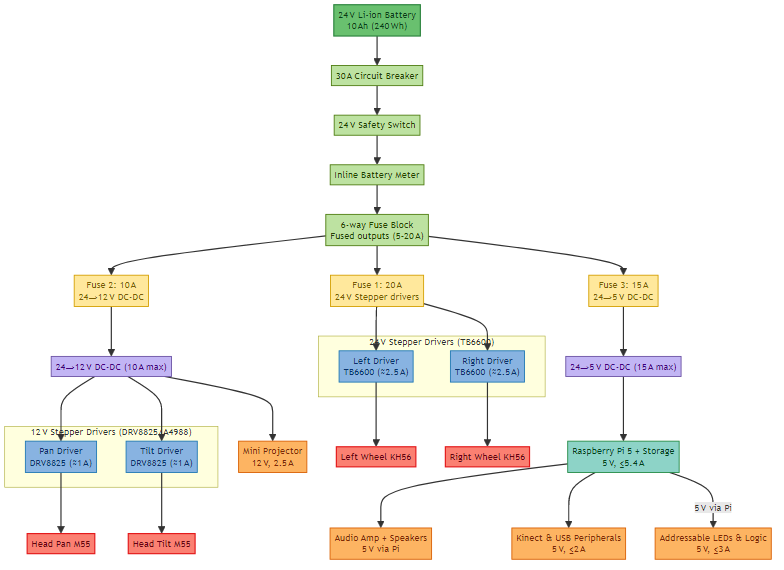
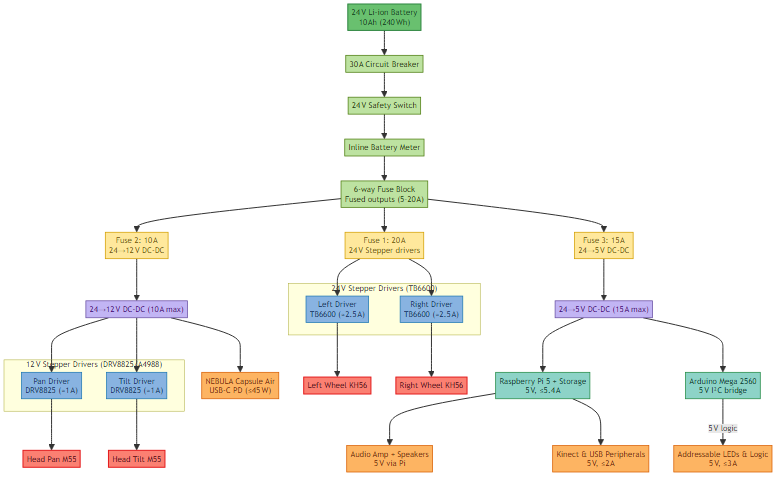
Up to date

diff --git a/readme.md b/readme.md
@@ -38,9 +38,10 @@ graph TD
         Stepper12Pan["Pan Driver\nDRV8825 (≈1 A)"]
         Stepper12Tilt["Tilt Driver\nDRV8825 (≈1 A)"]
     end
-    Projector["Mini Projector\n12 V, 2.5 A"]
+    Projector["NEBULA Capsule Air\nUSB-C PD (≤45 W)"]
     Audio["Audio Amp + Speakers\n5 V via Pi"]
     Pi["Raspberry Pi 5 + Storage\n5 V, ≤5.4 A"]
+    Arduino["Arduino Mega 2560\n5 V I²C bridge"]
     Kinect["Kinect & USB Peripherals\n5 V, ≤2 A"]
     LEDs["Addressable LEDs & Logic\n5 V, ≤3 A"]
 
@@ -52,9 +53,10 @@ graph TD
     Buck12 --> Stepper12Tilt
     Buck12 --> Projector
     FuseBlock --> FuseBuck5 --> Buck5 --> Pi
+    Buck5 --> Arduino
     Pi --> Audio
     Pi --> Kinect
-    Pi -->|5 V via Pi| LEDs
+    Arduino -->|5 V logic| LEDs
     Stepper24Left --> LeftWheel["Left Wheel KH56"]
     Stepper24Right --> RightWheel["Right Wheel KH56"]
     Stepper12Pan --> HeadPan["Head Pan M55"]
@@ -66,6 +68,7 @@ graph TD
     class Stepper24Left,Stepper24Right,Stepper12Pan,Stepper12Tilt driver
     class Buck12,Buck5 converter
     class Pi compute
+    class Arduino compute
     class Projector,Audio,Kinect,LEDs peripheral
     class LeftWheel,RightWheel,HeadPan,HeadTilt motor
 
@@ -95,9 +98,10 @@ graph TD
 ```mermaid
 graph LR
     Pi["Raspberry Pi 5\nCore compute & control"]
-    Projector["Mini Projector\nHDMI sink"]
+    Projector["NEBULA Capsule Air\nHDMI sink"]
     Kinect["Xbox Kinect Sensor\nUSB 3.0"]
     Controller["Xbox Controller Adapter\nUSB"]
+    Arduino["Arduino Mega 2560\nI²C co-processor"]
 
     subgraph StepperDrivers24["24 V TB6600 Stepper Drivers"]
         StepperL["Left Driver\nStep / Dir / Enable"]
@@ -119,21 +123,37 @@ graph LR
         MotorTilt["Tilt Motor\nA-/A+/B-/B+"]
     end
 
+    subgraph SensorCluster["Sensors"]
+        UltrasonicArray["Ultrasonic Pairs\nTrigger / Echo"]
+        LiDARArray["LiDAR Array\nI²C / UART"]
+    end
+
+    subgraph LimitSwitches["Limit Switches"]
+        PanLimit["Pan Home Switch\nDigital"]
+        ShutterLimit["Shutter Home Switch\nDigital"]
+    end
+
+    subgraph ShutterActuation["Shutter Actuation"]
+        ShutterDriver["Shutter Driver\nPWM / Dir / Enable"]
+        ShutterMotor["Shutter Motor\nType TBD"]
+    end
+
     Pi -->|HDMI| Projector
     Pi -->|USB 3.0| Kinect
     Pi -->|USB| Controller
-    Pi -->|GPIO: Step| StepperL
-    Pi -->|GPIO: Dir| StepperL
-    Pi -->|GPIO: Enable| StepperL
-    Pi -->|GPIO: Step| StepperR
-    Pi -->|GPIO: Dir| StepperR
-    Pi -->|GPIO: Enable| StepperR
-    Pi -->|GPIO: Step| StepperPan
-    Pi -->|GPIO: Dir| StepperPan
-    Pi -->|GPIO: Enable| StepperPan
-    Pi -->|GPIO: Step| StepperTilt
-    Pi -->|GPIO: Dir| StepperTilt
-    Pi -->|GPIO: Enable| StepperTilt
+    Pi -->|I²C commands| Arduino
+    Arduino -->|Status telemetry| Pi
+    Arduino -->|Step / Dir / Enable| StepperL
+    Arduino -->|Step / Dir / Enable| StepperR
+    Arduino -->|Step / Dir / Enable| StepperPan
+    Arduino -->|Step / Dir / Enable| StepperTilt
+    Arduino -->|PWM / Dir| ShutterDriver
+    Arduino -->|Trigger| UltrasonicArray
+    UltrasonicArray -->|Echo timing| Arduino
+    LiDARArray -->|Range frames| Arduino
+    Arduino -->|Sync / power| LiDARArray
+    PanLimit -->|Closed / Open| Arduino
+    ShutterLimit -->|Closed / Open| Arduino
 
     StepperL -->|A+| MotorLeft
     StepperL -->|A-| MotorLeft
@@ -151,11 +171,12 @@ graph LR
     StepperTilt -->|A-| MotorTilt
     StepperTilt -->|B+| MotorTilt
     StepperTilt -->|B-| MotorTilt
+    ShutterDriver -->|Motor power| ShutterMotor
 
-    class Pi compute
-    class Projector,Kinect,Controller peripheral
-    class StepperL,StepperR,StepperPan,StepperTilt driver
-    class MotorLeft,MotorRight,MotorPan,MotorTilt motor
+    class Pi,Arduino compute
+    class Projector,Kinect,Controller,UltrasonicArray,LiDARArray,PanLimit,ShutterLimit peripheral
+    class StepperL,StepperR,StepperPan,StepperTilt,ShutterDriver driver
+    class MotorLeft,MotorRight,MotorPan,MotorTilt,ShutterMotor motor
 
     classDef compute fill:#8dd3c7,stroke:#238b45,color:#00441b,stroke-width:1.5px
     classDef peripheral fill:#fdb462,stroke:#d95f02,color:#7f2704,stroke-width:1.5px
@@ -169,8 +190,9 @@ graph LR
 ## Control & Compute
 | Component | Role | Voltage (V) | Amperage (A) | Wattage (W) | Physical Dimensions (") | Link | Notes |
 | --- | --- | --- | --- | --- | --- | --- | --- |
-| Controller | Primary operator input | 5 | ≤1.5 | ≤7.5 | Gamepad form factor | [Xbox](https://www.xbox.com/en-US/accessories/controllers/elite-wireless-controller-series-2) | Wireless or USB |
-| Pi 5 | Onboard coordination & processing | 5 | ≤5.4 | ≤27 | 3.35" × 2.20" × 0.71" | [Raspberry](https://www.raspberrypi.com/products/raspberry-pi-5/) | Wi-Fi / Bluetooth / USB; CSI/DSI; 16 GB RAM, 64 GB SD. |
+| Controller | Primary operator input | 5 | ≤1.5 | ≤7.5 | Gamepad form factor | [Xbox Elite Controller](https://www.xbox.com/en-US/accessories/controllers/elite-wireless-controller-series-2) | Wireless or USB |
+| Computer | Onboard coordination & processing | 5 | ≤5.4 | ≤27 | 3.35" × 2.20" × 0.71" | [Raspberry Pi 5](https://www.raspberrypi.com/products/raspberry-pi-5/) | Wi-Fi / Bluetooth / USB; CSI/DSI; 16 GB RAM, 64 GB SD. |
+| Microcontroller | Motion & sensor co-processor | 5 | ≤0.5 | ≤2.5 | 4.00" × 2.10" × 0.60" | [Arduino Mega 2560](https://store.arduino.cc/products/arduino-mega-2560-rev3) | I²C bridge coordinating drivers, sensors, and limit switches. |
 
 ## Locomotion
 | Component | Voltage (V) | Amperage (A) | Wattage (W) | Physical Dimensions (") | Link | Notes |
@@ -186,6 +208,8 @@ graph LR
 | Head pan | 12 | 1.0 | 12 | Ø2.17" × 0.98" | [Mitsumi](https://product.minebeamitsumi.com/en/product/category/rotary/steppingmotor/pm/PMStandardtype.html) | M55SP-3NK Stepper Motor (stocked on [Radwell](https://www.radwell.com/Buy/MITSUMI/MITSUMI/M55SP-2NK)) |
 | Head tilt | 12 | 1.0 | 12 | Ø2.17" × 0.98" | [Mitsumi](https://product.minebeamitsumi.com/en/product/category/rotary/steppingmotor/pm/PMStandardtype.html) | M55SP-3NK Stepper Motor (stocked on [Radwell](https://www.radwell.com/Buy/MITSUMI/MITSUMI/M55SP-2NK)) |
 | Drivers | 12 | ≤2.0 | ≤24 | 0.8" × 0.6" | [Jeanoko](https://www.amazon.com/dp/B0C4P8997M) | DRV8825/A4988 × 2 |
+| Shutter motor driver | TBD | TBD | TBD | TBD | — | H-bridge driver; 5 V logic with 12 V motor rail; commanded by Arduino. |
+| Shutter motor | TBD | TBD | TBD | TBD | — | Motorized projector shutter (non-stepper); homed via limit switch. |
 
 ## Power & Electronics
 | Component | Voltage (V) | Amperage (A) | Wattage (W) | Physical Dimensions (") | Link | Notes |
@@ -204,14 +228,21 @@ graph LR
 ### Distance & Environment
 | Sensor | Range / Resolution | Coverage | Voltage (V) | Amperage (A) | Wattage (W) | Physical Dimensions (") | Link | Notes |
 | --- | --- | --- | --- | --- | --- | --- | --- | --- |
-| Ultrasonic pair (x2 sets) | Short-range (TBD) | Front/Rear or side placements TBD | 5 | ≤0.015 | ≤0.075 | ~1.77" × 0.79" modules | — | Use overlapping fields to reduce blind spots. |
-| Single-direction LiDARs (~10) | Spec TBD | 360° array via multiple units | TBD | TBD | TBD | TBD | — | Define spacing and mounting for uniform perimeter sensing. |
+| Ultrasonic pair (x2 sets) | Short-range (TBD) | Front/Rear or side placements TBD | 5 | ≤0.015 | ≤0.075 | ~1.77" × 0.79" modules | — | Use overlapping fields to reduce blind spots; polled by Arduino over I²C link to Pi. |
+| Single-direction LiDARs (~10) | Spec TBD | 360° array via multiple units | TBD | TBD | TBD | TBD | — | Define spacing and mounting for uniform perimeter sensing; prefer I²C/RS485 variants managed by Arduino. |
+
+### Contact & Limit Sensing
+
+| Component | Role | Voltage (V) | Amperage (A) | Wattage (W) | Physical Dimensions (") | Link | Notes |
+| --- | --- | --- | --- | --- | --- | --- | --- |
+| Pan home limit switch | Homing reference for head pan axis | 5 | ≤0.02 | ≤0.1 | TBD | — | Wired to Arduino digital input with pull-up; defines zero position. |
+| Shutter home limit switch | Homing reference for projector shutter | 5 | ≤0.02 | ≤0.1 | TBD | — | Confirms shutter closed position; debounced on Arduino. |
 
 ### Vision & Interaction
 | Component | Function | Coverage / Resolution | Voltage (V) | Amperage (A) | Wattage (W) | Physical Dimensions (") | Link | Notes |
 | --- | --- | --- | --- | --- | --- | --- | --- | --- |
 | Xbox Kinect | Depth + RGB sensing, Pose detection | Wide FoV; structured light | 5 | ≤2 | ≤10 | 11" × 2.6" × 1.5" | [OpenKinect](https://github.com/OpenKinect/libfreenect) | Confirm Raspberry Pi compatibility or plan for companion compute. |
-| Mini Projector | Visual output | 1080p | 12 | 2.5 | 27 | 5.5" × 2.36" × 4.33" | [CiBest](https://www.amazon.com/dp/B0DRCRK3BQ?ref=ppx_yo2ov_dt_b_fed_asin_title) | Validate mounting, airflow, and HDMI cabling to Pi 5. |
+| Mini Projector | Visual output | 720p (150 ANSI) | 5–20 (USB-C PD) | ≤2.25 | ≤45 | Ø2.7" × 5.5" | [NEBULA Capsule Air](https://www.amazon.com/dp/B0CWV1S7B4?ref=ppx_yo2ov_dt_b_fed_asin_title&th=1) | Built-in 34 Wh battery; integrate 45 W USB-C PD or leverage internal pack. |
 | Camera | Vision input | 12 MP, 75° FoV; autofocus | 5 | ≤0.5 | ≤2.5 | 1.50" × 1.50" × 0.71" (w/ adapter) | [Arducam](https://www.amazon.com/dp/B0C9PYCV9S?ref=ppx_yo2ov_dt_b_fed_asin_title) | IMX708 |
 | Addressable LED strip | Face ring | Pixel count TBD | 5 | ≤0.06 (per LED) | ≤0.3 (per 5 LEDs) | Flexible strip | — | Level-shift 3.3 V logic up to 5 V. |
 
@@ -225,21 +256,27 @@ graph LR
 | Item | Status | Next Step |
 | --- | --- | --- |
 | Head stepper motor selection | Pending | Determine torque requirements and mechanical constraints. |
-| Projector specification | Pending | Evaluate models for brightness, interface, and mounting. |
+| Projector specification | Selected | Locked on NEBULA Capsule Air (720p, 150 ANSI); confirm PD power profile. |
 | Sensor placement plan | Pending | Draft layout for ultrasonic and LiDAR modules; validate wiring paths. |
 | Power budget verification | Pending | Sum draw across motors, compute, sensors, and converters; size fuses accordingly. |
-| Projector integration | In progress | Design bracket and power branch for 12 V, 2.5 A load; verify HDMI adapter fit. |
+| Projector integration | In progress | Design mount plus USB-C PD (45 W) power delivery and verify HDMI link to Pi 5. |
+| Arduino firmware architecture | Pending | Define I²C command protocol between Pi and Arduino; map driver and sensor update loops. |
+| Shutter motor/driver selection | Pending | Choose H-bridge module and projector shutter motor torque requirements. |
+| Limit switch hardware | Pending | Select housing and lever style for pan/shutter homing switches; confirm wiring strain relief. |
 
 ## I/O & Pin Planning
 | Device / Bus | Qty | Pins (each) | Total Pins | Notes |
 | --- | --- | --- | --- | --- |
-| 24 V stepper drivers (L/R) | 2 | Step, Dir, Enable (3) | 6 | TB6600 opto-isolated inputs; share enable line if wiring permits. |
-| 12 V stepper drivers (pan/tilt) | 2 | Step, Dir, Enable (3) | 6 | Reserve two GPIOs for limit/home sensing. |
-| Ultrasonic modules | 2 | Trigger, Echo (2) | 4 | Consider HC-SR04-compatible interface. |
-| LiDAR modules | ~10 | I²C (shared 2) or UART (2 each) | 2–20 | Prioritize I²C/RS485 variants to conserve GPIO. |
+| Arduino co-processor | 1 | SDA, SCL (2) | 2 | I²C link from Raspberry Pi to Arduino Mega for motion & sensor fan-out. |
+| 24 V stepper drivers (L/R) | 2 | Step, Dir, Enable (3) | 6 | TB6600 opto-isolated inputs; commanded by Arduino, enable optionally shared. |
+| 12 V stepper drivers (pan/tilt) | 2 | Step, Dir, Enable (3) | 6 | Routed through Arduino; reserve extra GPIO for future torque/sense lines. |
+| Shutter motor driver | 1 | PWM, Dir, Enable (3) | 3 | H-bridge signals generated by Arduino (hardware PWM). |
+| Ultrasonic modules | 2 | Trigger, Echo (2) | 4 | HC-SR04-compatible; trigger/echo timing handled on Arduino. |
+| LiDAR modules | ~10 | I²C (shared 2) or UART (2 each) | 2–20 | Prefer shared-bus variants aggregated via Arduino to save Pi GPIO. |
 | Xbox Kinect | 1 | USB | 0 | Draws only from USB bus. |
 | Addressable LED strip | 1 | Data (1) | 1 | Level-shift 3.3 V logic up to 5 V. |
-| Audio amp control | 1 | Enable / I²C | 1–2 | Depends on module selection. |
+| Limit switches | 2 | Signal (1) | 2 | Home switches read by Arduino with internal pull-ups. |
+| Audio amp control | 1 | Enable / I²C | 1–2 | Depends on module selection; tie into Arduino or Pi as needed. |
 | Budget margin | — | — | ≥4 | Hold for future peripherals. |
 
 ### Pin mitigation options
